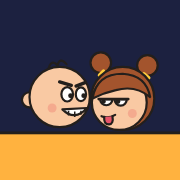
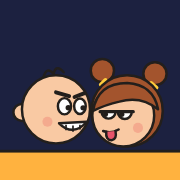
Herna: opravy z design-eye (pruh, ikona, písmo, panel), README

diff --git a/index.html b/index.html
@@ -83,7 +83,7 @@ h1,h2,p{margin:0}
   .jen-desktop{display:inline}
   .scena p{font-size:21px;max-width:26ch;margin-bottom:48px}
   .dvojice{position:relative;right:auto;bottom:auto;width:360px;height:208px;margin:0 0 -6px;justify-self:end}
-  .scena::after{position:relative;grid-area:pult;margin:0 -40px;height:22px}
+  .scena::after{position:relative;grid-area:pult;height:22px}
   main{max-width:1240px;margin:0 auto}
   .hry{grid-template-columns:repeat(4,minmax(0,1fr));gap:18px;padding:28px 40px 40px}
   .hra{grid-template-columns:1fr auto;grid-template-rows:auto 1fr auto;grid-template-areas:"ikona akce" "text text" "meta meta";row-gap:12px;padding:18px}
@@ -91,7 +91,9 @@ h1,h2,p{margin:0}
   .hra-ikona svg{width:64px;height:64px}
   .hra-akce{align-self:start}
   .hra-nazev{font-size:23px}
-  .hra-twist{margin-top:6px;font-size:15px;line-height:1.35}
+  .hra-twist{margin-top:6px;font-size:15.5px;line-height:1.38}
+  .hra-meta{font-size:14px}
+  .panel-list{display:flex;flex-direction:column;justify-content:center}
   .hra:not(.je-brzy):hover{transform:translateY(-3px)}
   .hra-odkaz:hover{text-decoration:underline}
   .pata{max-width:1240px;margin:0 auto;padding:0 40px 36px}

diff --git a/README.md b/README.md
@@ -1,0 +1,33 @@
+# Herna
+
+Rozcestník her pro dva na jednom odkazu: https://sachasportrezervace-arch.github.io/herna/
+
+Jedna statická stránka (bez buildu). Karty her se vykreslí z `games.json`, klik na kartu otevře hru, kde se zakládá výzva.
+Na iPhonu jde dát na plochu (Sdílet, Přidat na plochu) a otevře se přes celou obrazovku.
+
+## Soubory
+- `index.html` – stránka a CSS (mobil na výšku, desktop od 960 px).
+- `app.js` – karty, „naposledy hráno“ (localStorage), panel s pravidly, pojistka 404.
+- `ikony.js` – vektorové ikony her a postavičky (SVG sprite).
+- `games.json` – seznam her: název, twist, ikona, barva, typ, délka, stav (`hraj` / `brzy`), pravidla.
+- `manifest.webmanifest`, `icon.svg`, `apple-touch-icon.png`, `icon-192.png`, `icon-512.png` – přidání na plochu.
+
+## Stavy her
+„Hraj“ dostane jen hra, jejíž Pages URL vrací 200 a hra se v prohlížeči opravdu načte. Ověření a zápis:
+
+```bash
+NODE_PATH="$(npm root -g)" node tools/stavy.cjs --zapis
+```
+
+Pak commit a push. Stránka za běhu jen zamkne hru, která začne vracet 404; odemyká jen `games.json`.
+
+Nová hra: přidej záznam do `games.json` (a ikonu do `ikony.js`), spusť `tools/stavy.cjs --zapis`.
+
+## Test
+```bash
+NODE_PATH="$(npm root -g)" node tests/herna.cjs http://127.0.0.1:8807/
+```
+Bez argumentu testuje živou adresu. Chromium desktop 1280 a 1440, WebKit iPhone 13 a SE: stavy karet, načtení her, rozvržení,
+dotykové cíle, pravidla, klik do hry, naposledy hráno, manifest a ikony, chování bez sítě.
+
+Lokální server: `python -m http.server 8807 --bind 127.0.0.1`. Ikony na plochu: `node tools/ikona.cjs`.
